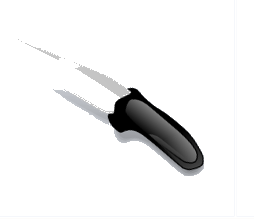
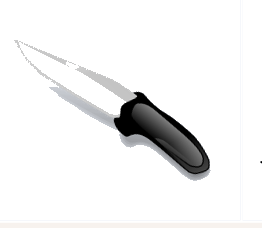
S21 末句改為『動機的善惡只在行為整體的層次才影響行為的道德性質』；刀子重裁（邊緣 flood-fill 保全刀刃，不再殘缺）

diff --git a/index.html b/index.html
@@ -526,7 +526,7 @@ body.no-clickzones .click-zones{display:none}
   </div>
   <div class="practice" style="margin-top:.6em">
     <span class="label">老師的看法</span>
-    <p style="margin:0;max-width:none">Pojman 忽略了「<b>情境</b>」。<b>「推人」這個行為本身，無法判斷對錯</b>；但不同的情境，使同樣的推人成為<b>不同的行為方案</b>——有飛刀時，推人在<b>客觀上就是「救人」</b>。行為方案的意義既由<b>客觀情境</b>決定，其對錯便能據以判斷，而<b>這判斷並不取決於動機</b>。動機的善惡，只在「行為整體」的層次才相關。</p>
+    <p style="margin:0;max-width:none">Pojman 忽略了「<b>情境</b>」。<b>「推人」這個行為本身，無法判斷對錯</b>；但不同的情境，使同樣的推人成為<b>不同的行為方案</b>——有飛刀時，推人在<b>客觀上就是「救人」</b>。行為方案的意義既由<b>客觀情境</b>決定，其對錯便能據以判斷，而<b>這判斷並不取決於動機</b>。動機的善惡，只在「行為整體」的層次，才<b>影響行為的道德性質</b>。</p>
   </div>
 </section>
 